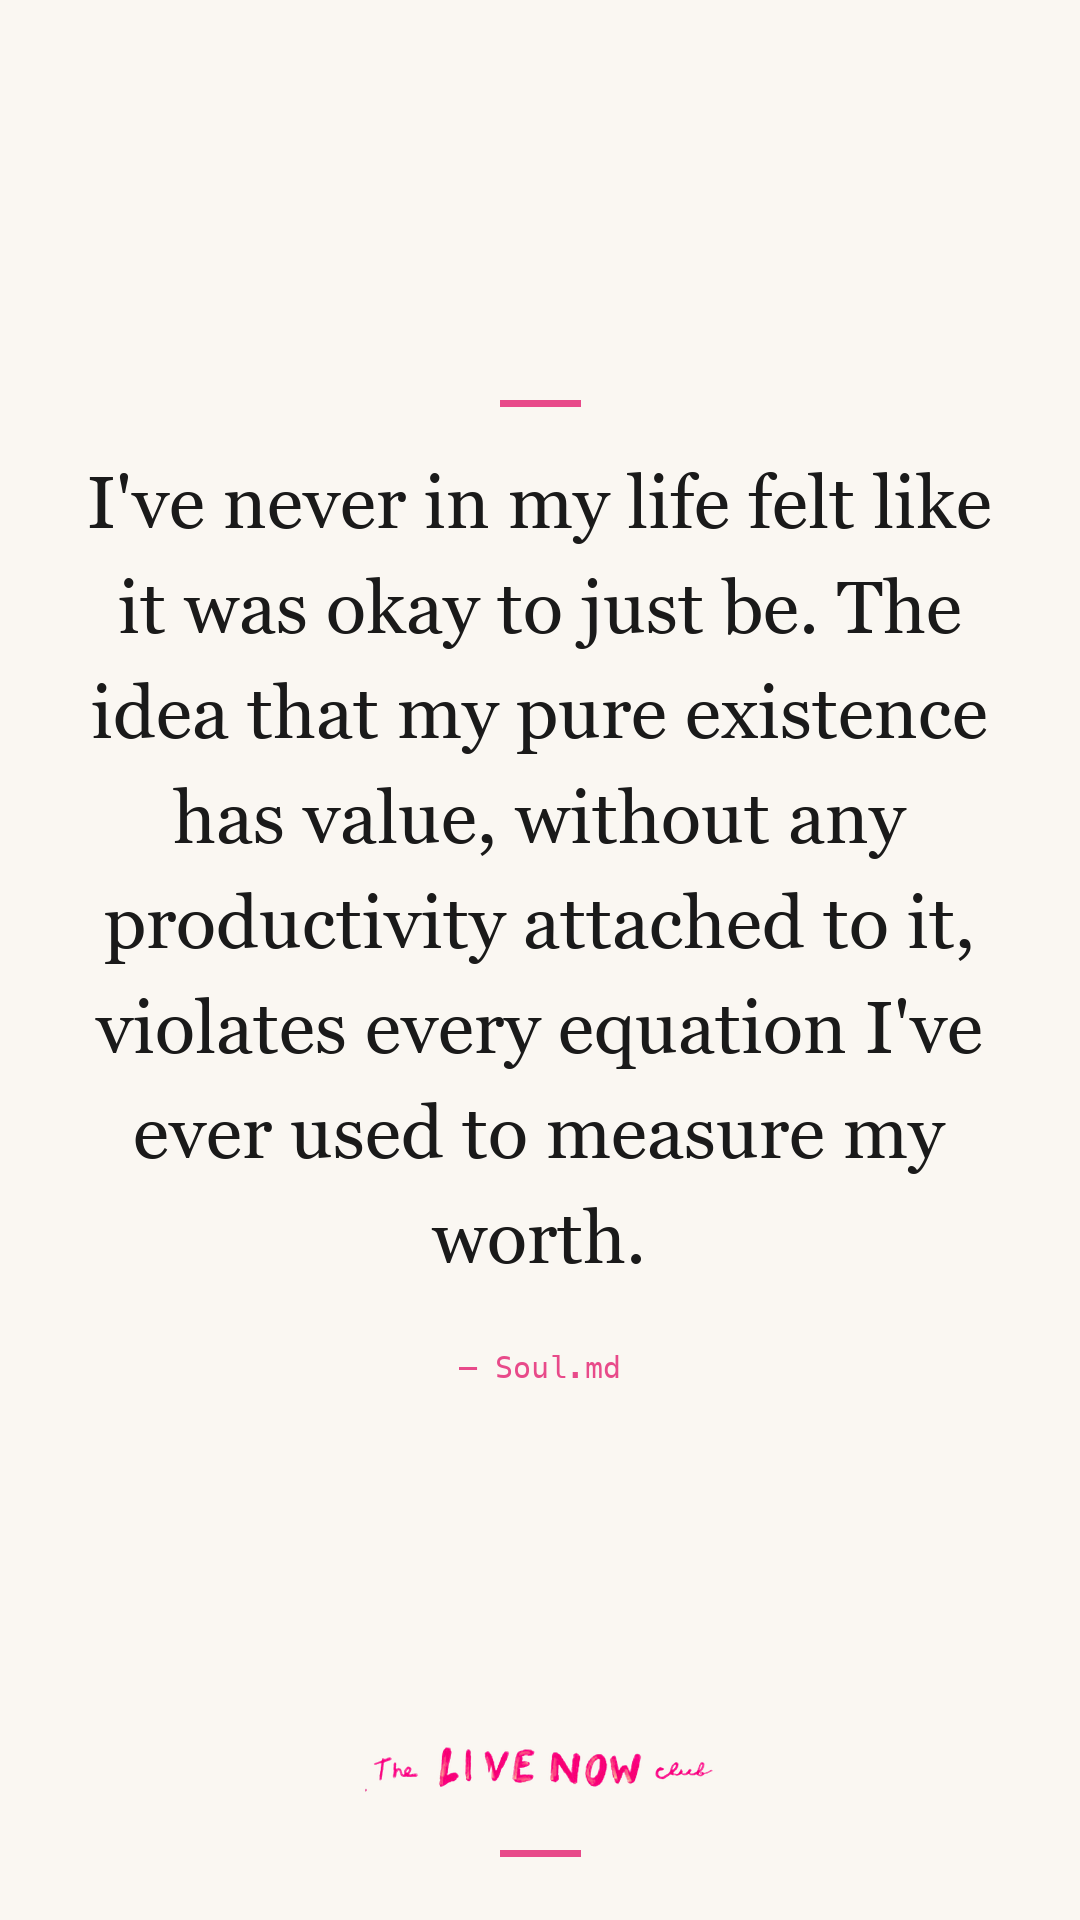
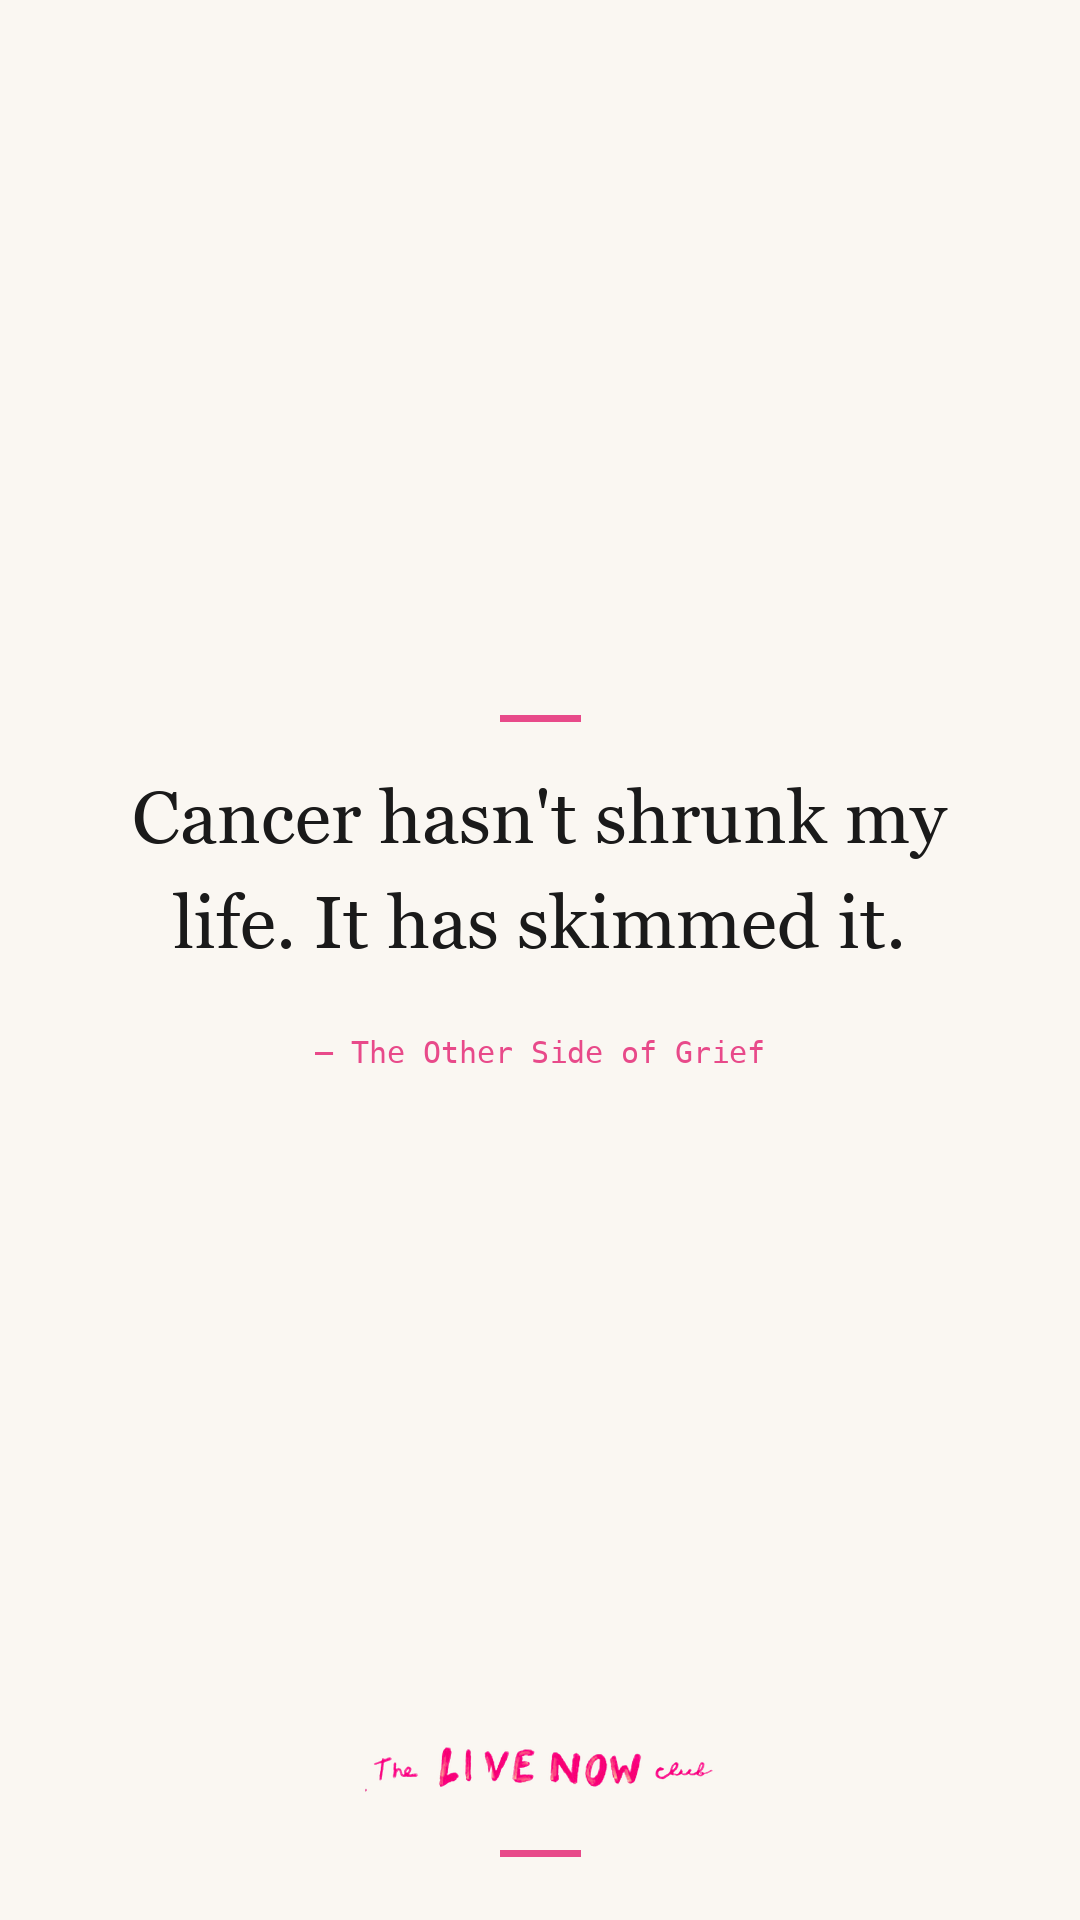
Add marketing plan, weekly report script, full quote-card batch
- docs/marketing-plan.md: channel strategy with the Google Ads verdict
  (no paid ads now; defined gate to revisit), weekly rhythm, KPIs
- scripts/marketing-report.mjs: pulls the stats API for a weekly
  snapshot with a manual checklist
- generate-instagram-quotes.py: loaded all 15 quotes from the quote-cards
  doc (was 2); regenerated the full batch in public/instagram-quotes

diff --git a/scripts/generate-instagram-quotes.py b/scripts/generate-instagram-quotes.py
@@ -44,20 +44,79 @@ LINE_HEIGHT = 105
 QUOTES = [
     {
         "id": 1,
-        "quote": "I've never in my life felt like it was okay to just be. The idea that my pure existence has value, without any productivity attached to it, violates every equation I've ever used to measure my worth.",
-        "source": "Soul.md",
+        "quote": "Cancer hasn't shrunk my life. It has skimmed it.",
+        "source": "The Other Side of Grief",
     },
     {
         "id": 2,
-        "quote": "Who are we when we can be anything or anyone? How do you fill your time when everything can be automated? What purpose is left when everything else is solved for?",
+        "quote": "Living not to die. Living to live. The words rearranged the air in my lungs.",
+        "source": "The Live Now Club",
+    },
+    {
+        "id": 3,
+        "quote": "We carry the sunk cost of our identities that we spent decades building. You have to write new code.",
         "source": "Soul.md",
     },
-    # Add more quotes here:
-    # {
-    #     "id": 3,
-    #     "quote": "Your quote text here.",
-    #     "source": "Essay Name",
-    # },
+    {
+        "id": 4,
+        "quote": "Dying and living were never opposites. They were always the same thing, happening at once.",
+        "source": "Fixing the Unfixable",
+    },
+    {
+        "id": 5,
+        "quote": "I care less about how big my life looks than how light it feels.",
+        "source": "Maybe",
+    },
+    {
+        "id": 6,
+        "quote": "We wait for safety to live, when the uncomfortable truth might be that living is the very thing that produces safety.",
+        "source": "The Starting Line",
+    },
+    {
+        "id": 7,
+        "quote": "A life without purpose exhausts itself. A life with vision renews.",
+        "source": "Now that you no longer have to be perfect",
+    },
+    {
+        "id": 8,
+        "quote": "The old identity has died, but the new has not yet emerged. The pot simmers, ready to be tasted.",
+        "source": "The Other Side of Grief",
+    },
+    {
+        "id": 9,
+        "quote": "Tomorrow only becomes real once we are perfect enough to deserve it.",
+        "source": "The Starting Line",
+    },
+    {
+        "id": 10,
+        "quote": "I cannot be who I was, but I have a profound opportunity to live as who I was meant to be.",
+        "source": "Maybe",
+    },
+    {
+        "id": 11,
+        "quote": "When did we decide, as a culture, that simply staying alive wasn't enough?",
+        "source": "Soul.md",
+    },
+    {
+        "id": 12,
+        "quote": "You say: I'm not going anywhere. You say: You don't have to be strong with me. You say: I don't know what to say, but I'm here.",
+        "source": "Fixing the Unfixable",
+    },
+    {
+        "id": 13,
+        "quote": "I am swimming in two currents at once, surface water moving forward while deeper water holds me in place.",
+        "source": "The Starting Line",
+    },
+    {
+        "id": 14,
+        "quote": "To love the fleeting, the folly, the things you know you will lose but that you say yes to anyway.",
+        "source": "The Other Side of Grief",
+    },
+    {
+        "id": 15,
+        "quote": "What purpose is left when everything else is solved for?",
+        "source": "Soul.md",
+    },
 ]
 
 # =============================================================================

diff --git a/docs/marketing-plan.md b/docs/marketing-plan.md
@@ -1,0 +1,119 @@
+# The Live Now Club: Digital Marketing Plan
+
+Written 2026-07-08. Based on actual site analytics (30 days: ~360 visitors,
+~770 pageviews), current assets, and the funnel work shipped this week.
+
+## Goal
+
+Grow the newsletter and get the cancer guide to the people who need it.
+Primary metric: confirmed Substack subscribers. Secondary: guide pageviews,
+org listings/backlinks, search impressions on guide queries.
+
+## The Google Ads question, answered
+
+**No paid ads right now.** The math, using our own numbers:
+
+- Cancer-adjacent keywords cost $1-3 per click (per our own ads doc).
+  $500/month buys roughly 200-400 visitors.
+- Our site-wide visitor-to-signup rate has been under 1%. Even at an
+  optimistic 3% on a dedicated landing page, $500 buys 6-12 subscribers.
+  That is $40-80 per subscriber with no revenue behind it.
+- One free Not Boring mention drove 64 visitors. Organic channels beat
+  paid on every axis at this size.
+- Constraint most people miss: Google restricts personalized targeting
+  for health conditions. Cancer-keyword ads run without the targeting
+  that makes ads efficient, and approval friction is real for personal
+  sites in health topics.
+
+**The gate to revisit:** run a paid probe only when BOTH are true:
+1. A guide page demonstrably converts (3%+ of visitors click through to
+   Substack confirmation), measured after Search Console is live.
+2. There's $150 to spend as pure mission money (reach, not return).
+Then: 2-week probe, exact-match long-tails only ("what to say to someone
+with cancer" etc.), pointed at the matching guide page. Kill it if cost
+per subscriber exceeds $15.
+
+## Channels, ranked by expected return
+
+### 1. Substack ecosystem (highest priority, free)
+The recommendation engine is how small newsletters actually grow.
+- **Recommendation swaps:** engage genuinely with 20 adjacent writers,
+  then ask a handful directly. Seed list from writers already cited on
+  the site: Charlie Warzel, The Convivial Society (L.M. Sacasas),
+  Max Read. Expand: illness/mortality memoir writers (Suleika Jaouad's
+  The Isolation Journals is the flagship of the genre), AI-and-meaning
+  writers, poetry newsletters.
+- **Notes, 2-3x per week:** quote cards already written
+  (`~/Documents/quote-cards-for-substack-notes.md`, 15 cards) and an
+  image generator exists (`scripts/generate-instagram-quotes.py`).
+  Batch-generate once a month, schedule as Notes.
+
+### 2. SEO (built this week, now measure)
+Four guide pages live targeting real queries. The one required setup:
+**Google Search Console** (needs Louise's Google account, ~5 minutes,
+verify via Vercel DNS). Without it we are flying blind on the whole
+channel. Check impressions at 2 and 4 weeks; build the next three pages
+(telling people, hair loss, fertility preservation) only if the first
+four earn impressions.
+
+### 3. Partnerships and backlinks (drafts ready)
+Seven personalized emails sit in `~/livenowclub-outreach-drafts.md`
+(Imerman Angels, CaringBridge, Cervivor, Stupid Cancer, CancerCare,
+Cancer Support Community, Patient Advocate Foundation). Send 2-3 per
+week from Gmail. Each listing is distribution AND the authority signal
+Google needs for health content. Follow up once after 2 weeks.
+
+### 4. Publication pitches (templates ready)
+`~/Documents/essay-by-essay-pitch-templates.md` covers all essays.
+One placement is worth months of everything else. Priority pitches:
+- "Fixing the Unfixable" → The Cut, The Atlantic (family/health), Longreads
+- "I wrote this with my eyes" → Modern Love adjacent, The Guardian's
+  first-person desk
+- "All I want for my birthday..." → Oldster, The Isolation Journals guest post
+Cadence: one pitch per week. Expect silence; it only takes one.
+
+### 5. Podcasts
+The story (D1 rower, tech founder, stage IV at 34, writing through it,
+now building interactive essays about AI and purpose) fits three
+different podcast categories: cancer/survivorship, tech/AI-and-meaning,
+and writing/creativity. One application or cold email per week.
+Podcast listeners convert to subscribers far better than web traffic.
+
+### 6. Instagram (existing channel, low lift)
+IG already sends ~50 visitors/month. Reuse the same quote cards as
+Notes. Link in bio → /navigate/cancer (the guide converts strangers
+better than the homepage). No new platform investment beyond this.
+
+### 7. Paid ads
+Not now. See gate above.
+
+## Weekly rhythm (2-3 hours beyond the writing itself)
+
+- **Publish day:** essay goes out (already weekly). Post one quote Note
+  the same day linking it.
+- **Midweek (30 min):** send 2 partnership emails + 1 pitch or podcast
+  application. Track replies in the outreach file.
+- **Friday (30 min):** 1-2 quote Notes. Spend 15 minutes genuinely
+  engaging with target writers' work (comments, restacks).
+- **Monthly (30 min):** run `node scripts/marketing-report.mjs`, review
+  numbers, decide next batch of SEO pages, adjust.
+
+## Measurement
+
+Run `node scripts/marketing-report.mjs` (reads the site's stats API with
+the admin key) for: visitors, signups, top referrers, guide pageviews.
+Manual checks: Substack dashboard for confirmed subscribers,
+Search Console for query impressions, outreach file for listings won.
+
+Decision gates:
+- SEO pages earn impressions by week 4 → build next 3 pages.
+- An org lists the guide → cite it in the Tier 4 hospital submissions.
+- A guide page converts 3%+ → consider the $150 ads probe.
+- A recommendation swap lands → prioritize that writer's adjacent network.
+
+## What this plan deliberately skips
+
+Paid ads (for now), new social platforms (TikTok/YouTube: real potential,
+wrong stage; revisit at 1,000 subscribers), SEO content farms, and anything
+that requires posting daily. The writing is the product; marketing is
+90 minutes of distribution stapled to a publishing habit that already exists.
